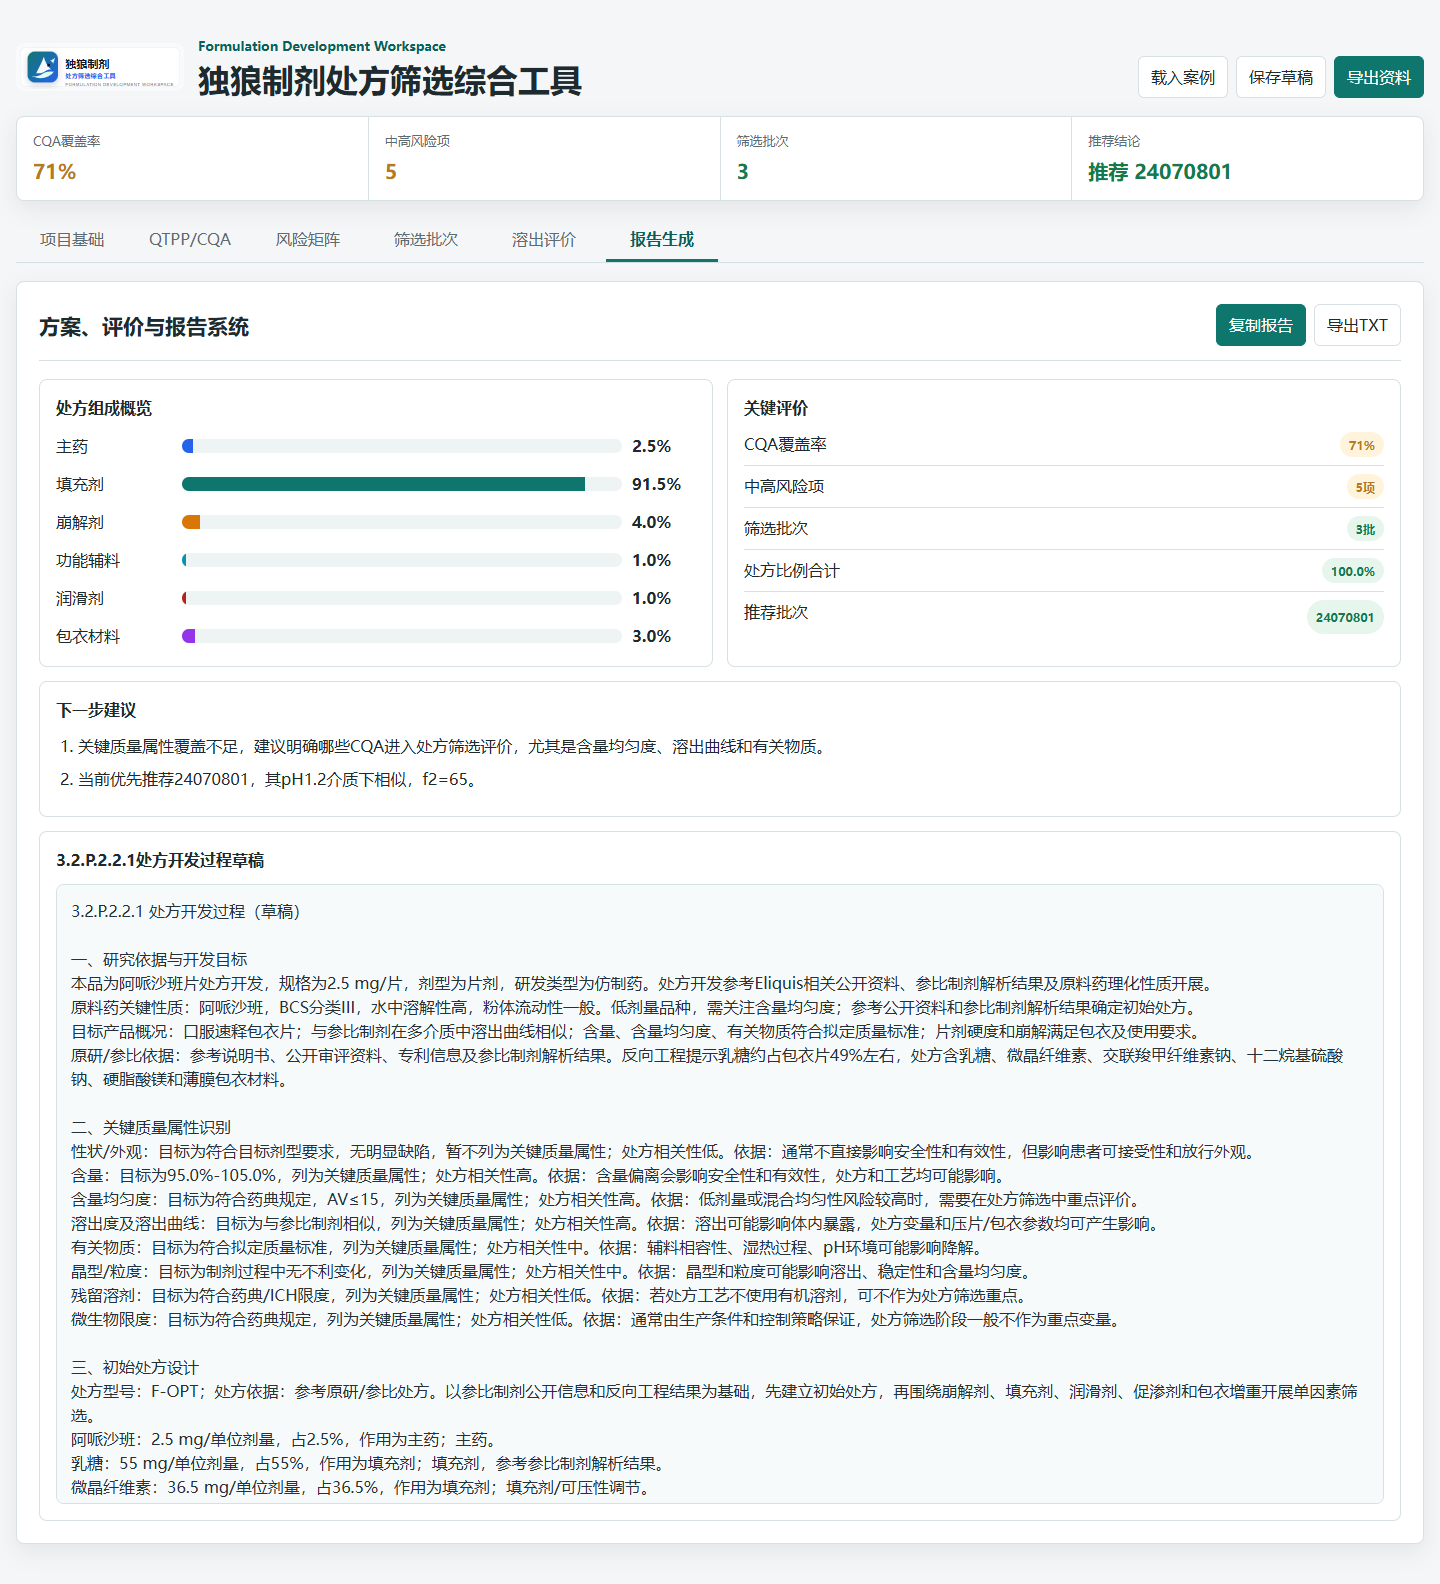
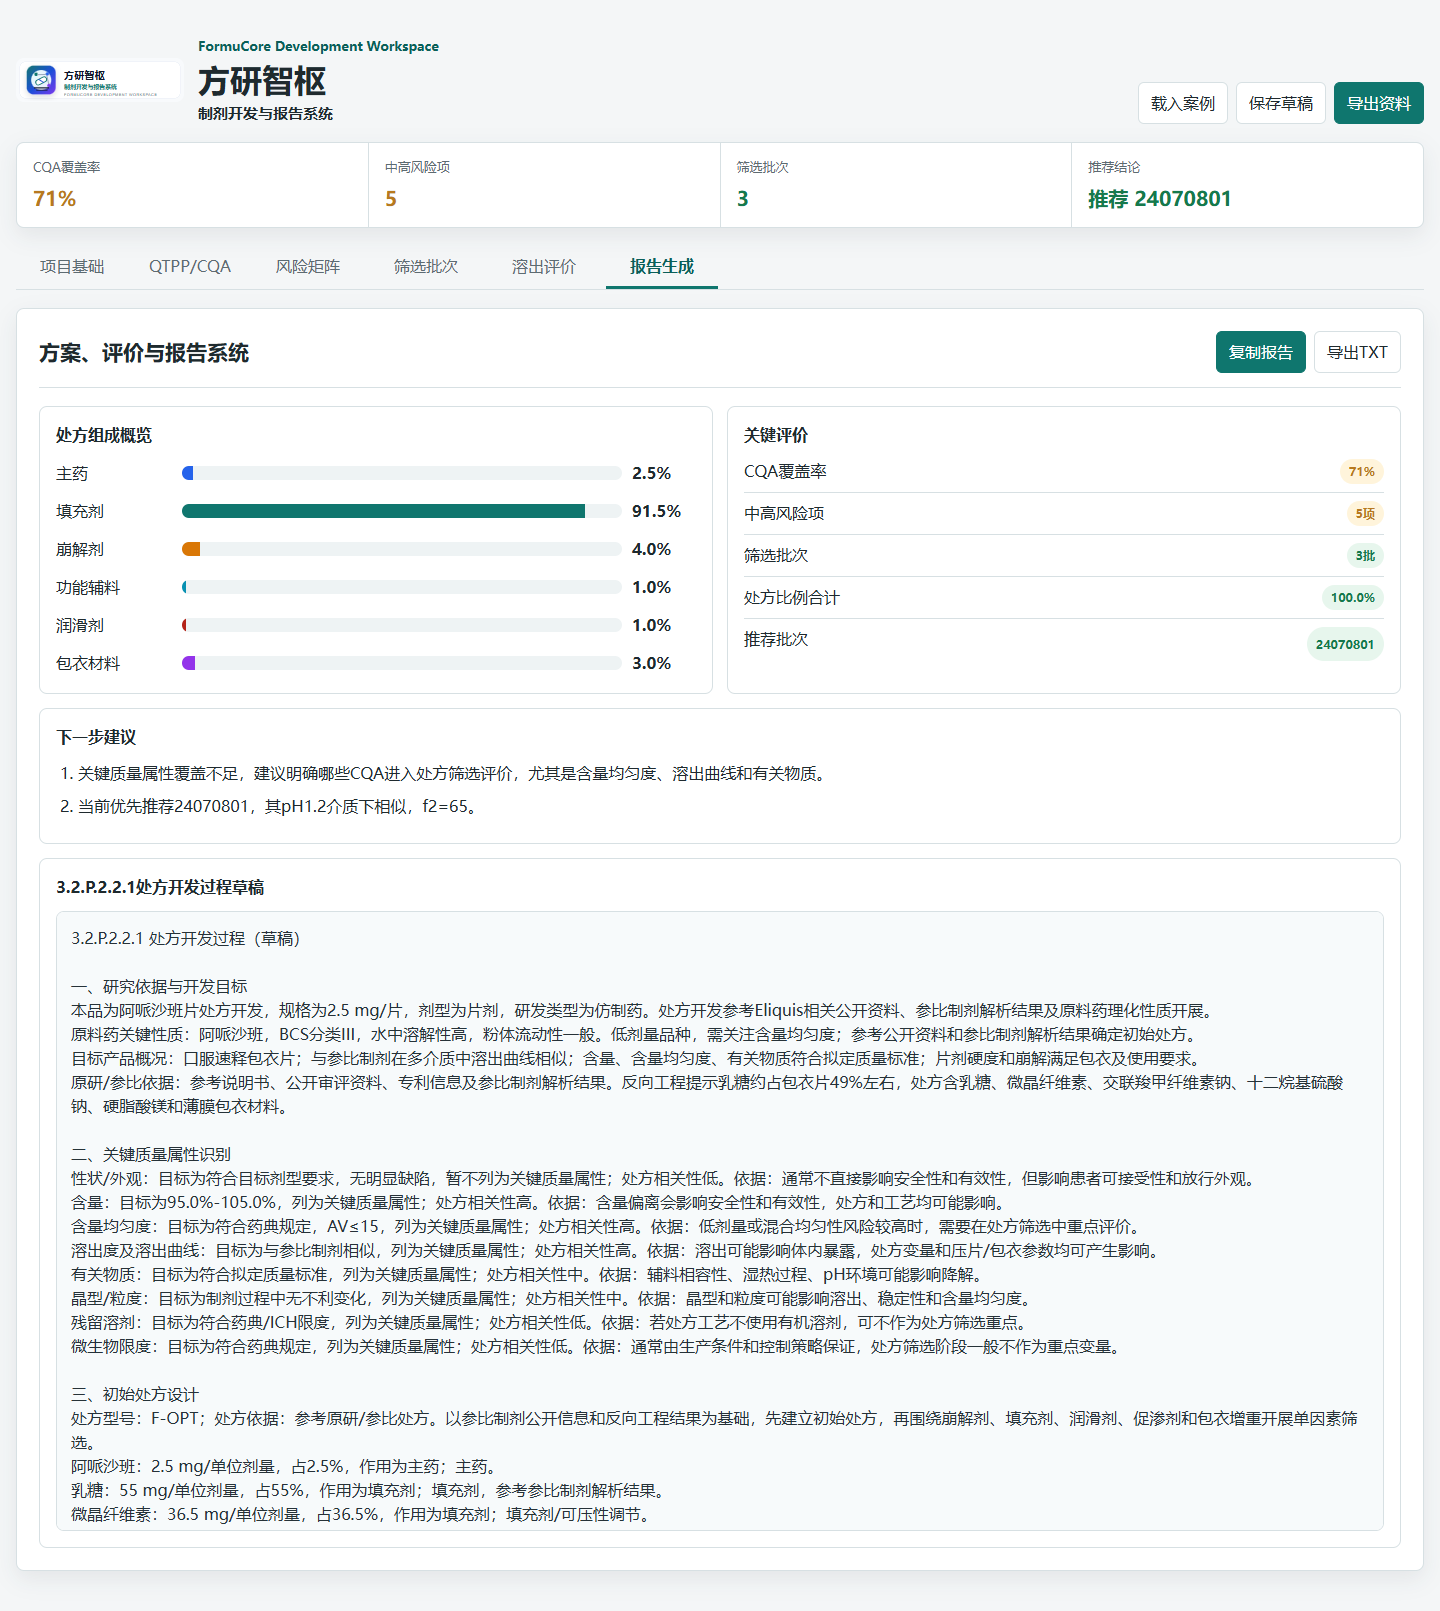
Rebrand app as Fangyan FormuCore

diff --git a/app.js b/app.js
@@ -874,18 +874,18 @@ function ingredientList(index, role) {
 }
 
 function saveDraft() {
-  localStorage.setItem("dulang-formulation-workspace", JSON.stringify(state));
+  localStorage.setItem("fangyan-formucore-workspace", JSON.stringify(state));
   alert("草稿已保存到当前浏览器。");
 }
 
 function loadDraft() {
-  const raw = localStorage.getItem("dulang-formulation-workspace");
+  const raw = localStorage.getItem("fangyan-formucore-workspace") || localStorage.getItem("dulang-formulation-workspace");
   if (!raw) return;
   try {
     const parsed = JSON.parse(raw);
     Object.assign(state, parsed);
   } catch {
-    localStorage.removeItem("dulang-formulation-workspace");
+    localStorage.removeItem("fangyan-formucore-workspace");
   }
 }
 
@@ -903,12 +903,12 @@ function exportWorkspace() {
     evaluation,
     report: buildReport(evaluation)
   };
-  downloadFile(`dulang-formulation-workspace-${Date.now()}.json`, JSON.stringify(payload, null, 2), "application/json;charset=utf-8");
-  downloadFile(`dulang-formulation-report-${Date.now()}.txt`, payload.report, "text/plain;charset=utf-8");
+  downloadFile(`fangyan-formucore-workspace-${Date.now()}.json`, JSON.stringify(payload, null, 2), "application/json;charset=utf-8");
+  downloadFile(`fangyan-formucore-report-${Date.now()}.txt`, payload.report, "text/plain;charset=utf-8");
 }
 
 function exportReportText() {
-  downloadFile(`dulang-formulation-report-${Date.now()}.txt`, refs.reportText.textContent, "text/plain;charset=utf-8");
+  downloadFile(`fangyan-formucore-report-${Date.now()}.txt`, refs.reportText.textContent, "text/plain;charset=utf-8");
 }
 
 function downloadFile(filename, content, type) {

diff --git a/index.html b/index.html
@@ -3,7 +3,7 @@
 <head>
   <meta charset="utf-8">
   <meta name="viewport" content="width=device-width, initial-scale=1">
-  <title>独狼制剂处方筛选综合工具</title>
+  <title>方研智枢 - 制剂开发与报告系统</title>
   <link rel="icon" href="data:,">
   <link rel="stylesheet" href="./styles.css">
 </head>
@@ -11,10 +11,11 @@
   <main class="app-shell">
     <header class="app-header">
       <div class="brand-lockup">
-        <img src="./assets/dulang-logo.svg" alt="独狼制剂处方筛选综合工具" class="brand-logo">
+        <img src="./assets/fangyan-logo.svg" alt="方研智枢制剂开发与报告系统" class="brand-logo">
         <div>
-        <p class="eyebrow">Formulation Development Workspace</p>
-        <h1>独狼制剂处方筛选综合工具</h1>
+        <p class="eyebrow">FormuCore Development Workspace</p>
+        <h1>方研智枢</h1>
+        <p class="app-subtitle">制剂开发与报告系统</p>
         </div>
       </div>
       <div class="header-actions">

diff --git a/styles.css b/styles.css
@@ -101,9 +101,16 @@ p {
 }
 
 h1 {
-  margin-bottom: 0;
+  margin-bottom: 4px;
   font-size: 32px;
   line-height: 1.2;
+}
+
+.app-subtitle {
+  margin: 0;
+  color: var(--text-muted);
+  font-size: 15px;
+  font-weight: 700;
 }
 
 h2 {

diff --git a/README.md b/README.md
@@ -1,22 +1,22 @@
 <p align="center">
-  <img src="./assets/dulang-logo.svg" alt="独狼制剂处方筛选综合工具 Logo" width="520">
+  <img src="./assets/fangyan-logo.svg" alt="方研智枢制剂开发与报告系统 Logo" width="560">
 </p>
 
-<h1 align="center">独狼制剂处方筛选综合工具</h1>
+<h1 align="center">方研智枢</h1>
 
 <p align="center">
-  面向化学药品制剂研发的处方开发方案、实验记录、结果评价与报告生成工具。
+  制剂开发与报告系统：面向化学药品制剂研发的处方开发方案、实验记录、结果评价与报告生成工具。
 </p>
 
 <p align="center">
   <a href="https://dulang-formulation-screening-tool.onrender.com">在线访问 Render 页面</a>
 </p>
 
-这是一个面向化学药品制剂研发的静态网页工具，目标是沉淀为“可复用的处方开发方案、实验记录、结果评价、报告系统生成工具”。当前版本重点把处方开发的核心链条打通：从项目基础信息、QTPP/CQA、风险识别、处方筛选批次、溶出评价到报告草稿输出。
+方研智枢是一个面向化学药品制剂研发的静态网页工具，目标是沉淀为“可复用的处方开发方案、实验记录、结果评价、报告系统生成工具”。当前版本重点把处方开发的核心链条打通：从项目基础信息、QTPP/CQA、风险识别、处方筛选批次、溶出评价到报告草稿输出。
 
 ## 页面预览
 
-![独狼制剂处方筛选综合工具使用截图](./assets/screenshots/app-overview.png)
+![方研智枢制剂开发与报告系统使用截图](./assets/screenshots/app-overview.png)
 
 ## 当前模块
 